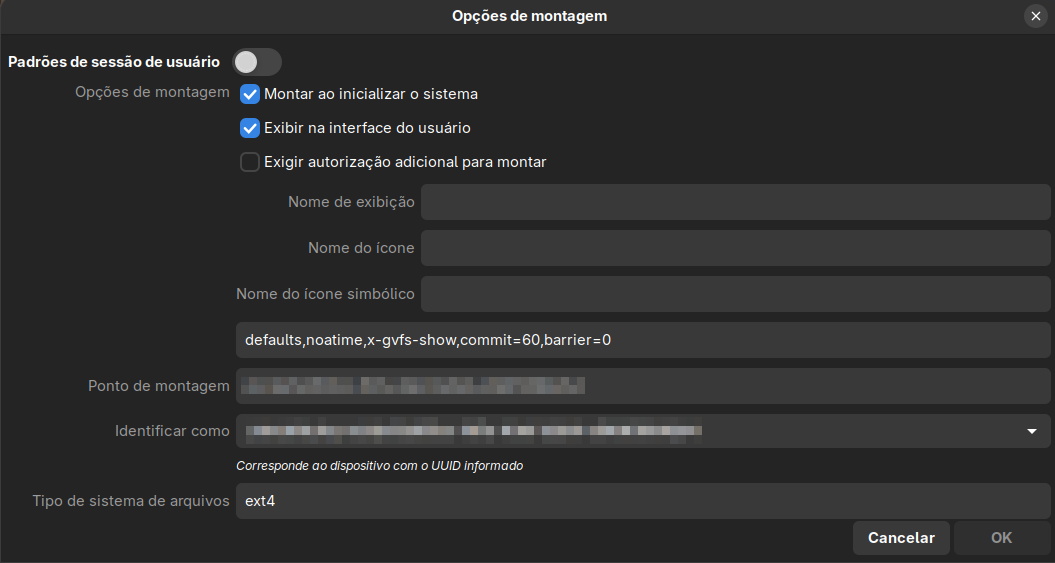
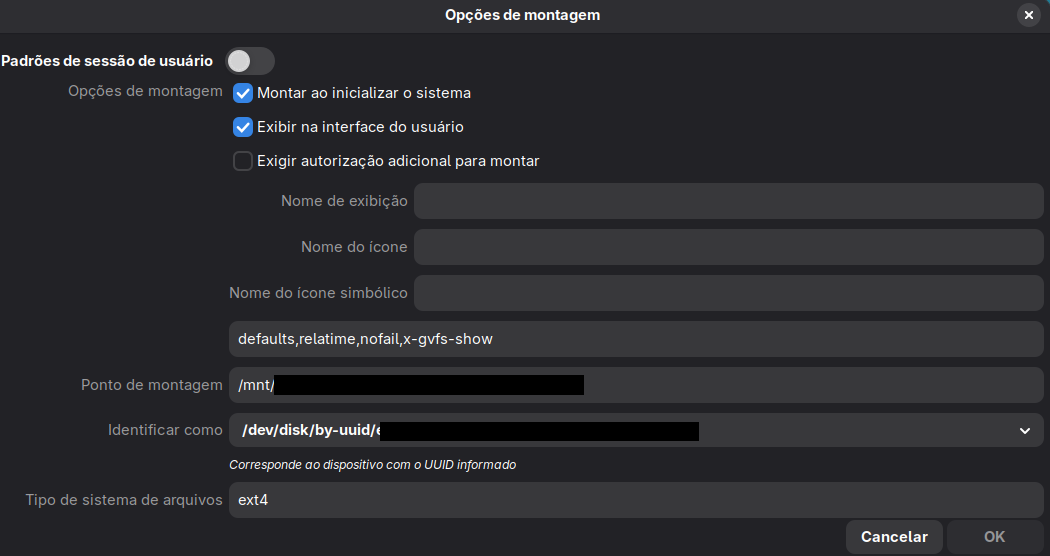
retira as configurações para o fstab e modifica a estrutura do texto

diff --git a/config-finais.md b/config-finais.md
@@ -1,54 +1,53 @@
-# Configurações necessárias após as execuções dos scripts
+# Configurações
 
-[1 - Tema e extensões](https://github.com/henriqueffc/archpost-installation/blob/main/config-finais.md#1---tema-e-extens%C3%B5es)
-|
-[2 - SSH](https://github.com/henriqueffc/archpost-installation/blob/main/config-finais.md#2---ssh)
-|
-[3 - NVMe](https://github.com/henriqueffc/archpost-installation/blob/main/config-finais.md#3---nvme)
-|
-[4 - Nautilus](https://github.com/henriqueffc/archpost-installation/blob/main/config-finais.md#4---nautilus)
-|
-[5 - Fstab](https://github.com/henriqueffc/archpost-installation/blob/main/config-finais.md#5---fstab)
-|
-[6 - Ext4](https://github.com/henriqueffc/archpost-installation/blob/main/config-finais.md#6---ext4)
-|
-[7 - Xpad](https://github.com/henriqueffc/archpost-installation/blob/main/config-finais.md#7---xpad)
-|
-[8 - Rclone](https://github.com/henriqueffc/archpost-installation/blob/main/config-finais.md#8---rclone)
-|
-[9 - Conservation mode - Lenovo Loq 15IRH8](https://github.com/henriqueffc/archpost-installation/blob/main/config-finais.md#9---conservation-mode---lenovo-loq-15irh8)
-|
-[10 - Steam](https://github.com/henriqueffc/archpost-installation/blob/main/config-finais.md#10---steam)
-|
-[11 - Fallback](https://github.com/henriqueffc/archpost-installation/blob/main/config-finais.md#11---fallback)
-|
-[12 - Bluetooth](https://github.com/henriqueffc/archpost-installation/blob/main/config-finais.md#12---bluetooth)
-|
-[13 - Geoclue](https://github.com/henriqueffc/archpost-installation/blob/main/config-finais.md#13---geoclue)
-|
-[14 - Aplicativos](https://github.com/henriqueffc/archpost-installation/blob/main/config-finais.md#14---aplicativos)
-|
-[15 - Piper](https://github.com/henriqueffc/archpost-installation/blob/main/config-finais.md#15---piper)
-|
-[16 - Ordem do boot](https://github.com/henriqueffc/archpost-installation/blob/main/config-finais.md#16---ordem-do-boot)
-|
-[17 - Zotero](https://github.com/henriqueffc/archpost-installation/blob/main/config-finais.md#17---zotero)
-|
-[18 - Incus](https://github.com/henriqueffc/archpost-installation/blob/main/config-finais.md#18---incus)
-|
-[19 - tmpfiles](https://github.com/henriqueffc/archpost-installation/blob/main/config-finais.md#19---tmpfiles)
-|
-[20 - sgpt](https://github.com/henriqueffc/archpost-installation/blob/main/config-finais.md#20---sgpt)
-|
-[21 - dns](https://github.com/henriqueffc/archpost-installation/blob/main/config-finais.md#21---dns)
-|
-[22 - easyeffects](https://github.com/henriqueffc/archpost-installation/blob/main/config-finais.md#22---easyeffects)
-|
-[23 - firefox](https://github.com/henriqueffc/archpost-installation/blob/main/config-finais.md#23---firefox)
-|
-[24 - igpu](https://github.com/henriqueffc/archpost-installation/blob/main/config-finais.md#24---igpu)
+Execute as configurações somente após a conclusão de todos os scripts do
+repositório.
 
-### 1 - Tema e extensões
+[Tema e extensões](https://github.com/henriqueffc/archpost-installation/blob/main/config-finais.md#tema-e-extens%C3%B5es)
+|
+[SSH](https://github.com/henriqueffc/archpost-installation/blob/main/config-finais.md#ssh)
+|
+[Nautilus](https://github.com/henriqueffc/archpost-installation/blob/main/config-finais.md#nautilus)
+|
+[Ext4](https://github.com/henriqueffc/archpost-installation/blob/main/config-finais.md#ext4)
+|
+[Xpad](https://github.com/henriqueffc/archpost-installation/blob/main/config-finais.md#xpad)
+|
+[Rclone](https://github.com/henriqueffc/archpost-installation/blob/main/config-finais.md#rclone)
+|
+[Conservation mode - Lenovo Loq 15IRH8](https://github.com/henriqueffc/archpost-installation/blob/main/config-finais.md#conservation-mode---lenovo-loq-15irh8)
+|
+[Steam](https://github.com/henriqueffc/archpost-installation/blob/main/config-finais.md#steam)
+|
+[Fallback](https://github.com/henriqueffc/archpost-installation/blob/main/config-finais.md#fallback)
+|
+[Bluetooth](https://github.com/henriqueffc/archpost-installation/blob/main/config-finais.md#bluetooth)
+|
+[Geoclue](https://github.com/henriqueffc/archpost-installation/blob/main/config-finais.md#geoclue)
+|
+[Aplicativos](https://github.com/henriqueffc/archpost-installation/blob/main/config-finais.md#aplicativos)
+|
+[Piper](https://github.com/henriqueffc/archpost-installation/blob/main/config-finais.md#piper)
+|
+[Ordem do boot](https://github.com/henriqueffc/archpost-installation/blob/main/config-finais.md#ordem-do-boot)
+|
+[Zotero](https://github.com/henriqueffc/archpost-installation/blob/main/config-finais.md#zotero)
+|
+[Incus](https://github.com/henriqueffc/archpost-installation/blob/main/config-finais.md#incus)
+|
+[tmpfiles](https://github.com/henriqueffc/archpost-installation/blob/main/config-finais.md#tmpfiles)
+|
+[sgpt](https://github.com/henriqueffc/archpost-installation/blob/main/config-finais.md#sgpt)
+|
+[dns](https://github.com/henriqueffc/archpost-installation/blob/main/config-finais.md#dns)
+|
+[easyeffects](https://github.com/henriqueffc/archpost-installation/blob/main/config-finais.md#easyeffects)
+|
+[firefox](https://github.com/henriqueffc/archpost-installation/blob/main/config-finais.md#firefox)
+|
+[igpu](https://github.com/henriqueffc/archpost-installation/blob/main/config-finais.md#igpu)
+
+## Tema e extensões
 
 **Tema**
 
@@ -92,21 +91,11 @@ preciso habilitar a extensão "Integração com o Gnome Shell"
 ([Firefox](https://addons.mozilla.org/firefox/addon/gnome-shell-integration/) /
 [Chrome](https://chromewebstore.google.com/detail/gnome-shell-integration/gphhapmejobijbbhgpjhcjognlahblep)).
 
-### 2 - SSH
+## SSH
 
 Configurar o Fail2ban - porta SSH e o SSH.
 
-### 3 - NVMe
-
-Não altere a identificação do ponto de montagem. Mude as flags (coloque
-`defaults,relatime,x-gvfs-show,commit=60,barrier=0`) e o tipo de sistema de
-arquivos (auto -> ext4) da partição do NVMe no aplicativo Discos - Opções
-adicionais de partição - Editar opções de montagem. Lembrando que essa
-configuração é para a partição do NVMe em que ficam instalados os jogos, VMs e
-outros dados. Não é configuração a ser aplicada para a partição do sistema, do
-boot ou a home. ![Screenshot1](.github/screenshots/discos.png)
-
-### 4 - Nautilus
+## Nautilus
 
 Atalhos no Nautilus (File). A fonte que contém os símbolos foi instalada pelo
 script número 3.
@@ -117,18 +106,7 @@ script número 3.
 
 `mkdir ~/Documentos/Projetos && echo "file:///home/$USER/Documentos/Projetos 🎒 Projetos" >>~/.config/gtk-3.0/bookmarks`
 
-### 5 - Fstab
-
-Acrescente nos parâmetros da partição raiz **/** as seguintes especificações
-`commit=60` e `barrier=0`.
-
-`sudo nano /etc/fstab`
-
-```
-/               ext4            rw,relatime,commit=60,barrier=0  0 1
-```
-
-### 6 - Ext4
+## Ext4
 
 Habilite o
 [fast commit](https://wiki.archlinux.org/title/Ext4#Enabling_fast_commit_in_existing_filesystems)
@@ -195,7 +173,7 @@ orphan_file não estiver disponível na lista)
 Verifique a lista novamente usando
 `sudo dumpe2fs -h /dev/camimho_da_partição | grep features`
 
-### 7 - Xpad
+## Xpad
 
 O controle Multilaser JS091 (Shanwan Controler) está funcionando corretamente
 como Microsoft Corp. Xbox360 Controller (verifique com `lsusb`). Caso não
@@ -203,11 +181,11 @@ funcione instale a atualização para o Xpad disponível no site
 <https://github.com/paroj/xpad> ou utilize o pacote disponível no AUR
 `game-devices-udev` <https://codeberg.org/fabiscafe/game-devices-udev>
 
-### 8 - Rclone
+## Rclone
 
 Configurar o remote no rclone e fazer o scprit de sincronização.
 
-### 9 - Conservation mode - Lenovo Loq 15IRH8
+## Conservation mode - Lenovo Loq 15IRH8
 
 Modo de conservação da bateria. Se for habilitado manterá a carga máxima da
 bateria em 80%. No painel de configuração do GNOME, na opção "Energia", em
@@ -232,7 +210,7 @@ Para desabilitar
 
 `echo 0 > /sys/bus/platform/drivers/ideapad_acpi/VPC2004:00/conservation_mode`
 
-### 10 - Steam
+## Steam
 
 **Proton**
 
@@ -354,7 +332,7 @@ Execute no terminal (com a Steam fechada)
 
 `steam-runtime steam://unlockh264/` ou `steam steam://unlockh264/`
 
-### 11 - Fallback
+## Fallback
 
 Caso a imagem para o kernel fallback esteja sendo gerada pelo mkinitcpio, faça o
 seguinte:
@@ -379,7 +357,7 @@ Regenere o initramfs:
 
 `sudo mkinitcpio -P`
 
-### 12 - Bluetooth
+## Bluetooth
 
 Caso o bluetooth não esteja funcionando, execute
 `sudo rfkill unblock bluetooth && sudo systemctl restart bluetooth`. Os pacotes
@@ -387,7 +365,7 @@ necessários para o funcionamento do bluetooth já foram instalados no sistema e
 as configurações para os recursos experimentais do bluetooth foram executadas no
 script número n.° 3.
 
-### 13 - Geoclue
+## Geoclue
 
 **Geoclue estático**
 
@@ -434,7 +412,7 @@ Se quiser desabilitar o Geoclue use os seguintes comandos:
 
 Manual do [Geoclue](https://man.archlinux.org/man/extra/geoclue/geoclue.5.en)
 
-### 14 - Aplicativos
+## Aplicativos
 
 **Falhas na renderização**
 
@@ -459,7 +437,7 @@ Desabilite o funcionamento dos aplicativos Apostrophe e Discord em segundo
 plano. Pode ser feito pelo Flatseal ou pelas configurações do Gnome
 (Aplicativos).
 
-### 15 - Piper
+## Piper
 
 [https://github.com/Elleo/pied/](https://github.com/Elleo/pied/)
 
@@ -483,7 +461,7 @@ mudança.
 
 O ícone do app estará na pasta Utilitários no grid.
 
-### 16 - Ordem do boot
+## Ordem do boot
 
 Verifique o ID do kernel com o comando `bootctl list`. Selecione o kernel que
 você deseja para a inicialização do sistema com o comando
@@ -496,7 +474,7 @@ desejado (em segundos) da exibição ou coloque 0 para esconder as opções de
 inicialização. Para acessar a tela, caso opte por escondê-la, após ligar o
 notebook pressione a barra de espaço do teclado.
 
-### 17 - Zotero
+## Zotero
 
 Faça o download do arquivo xpi das seguintes extensões:
 
@@ -509,7 +487,7 @@ foram instalados pelo script n.º 3. Nas configurações da extensão no Zotero
 configure a localização para o tesseract `/usr/bin/tesseract` e para o pdftoppm
 `/usr/bin/pdftoppm`.
 
-### 18 - Incus
+## Incus
 
 Execute os seguintes comandos para configurar o Incus.
 
@@ -537,7 +515,7 @@ configurações do profile. Caso altere o nome, substitua nos comandos abaixo.
 
 `sudo firewall-cmd --reload`
 
-### 19 - tmpfiles
+## tmpfiles
 
 O arquivo de configuração para cada ação deve ser alocado em `/etc/tmpfiles.d/`
 
@@ -570,7 +548,7 @@ Depois de concebido o arquivo, execute
 
 `sudo systemd-tmpfiles --create`
 
-### 20 - sgpt
+## sgpt
 
 **Instalação**
 
@@ -611,7 +589,7 @@ API_BASE_URL=http://127.0.0.1:11434
 
 [Fonte - github shell_gpt](https://github.com/TheR1D/shell_gpt/wiki/Ollama)
 
-### 21 - dns
+## dns
 
 A instalação do
 [systemd-resolved](https://wiki.archlinux.org/title/Systemd-resolved) e a
@@ -628,7 +606,7 @@ aplicada.
 Verificar se DoT está funcionando
 `resolvectl query --type=TXT whoami.ds.akahelp.net`
 
-### 22 - easyeffects
+## easyeffects
 
 Configuração do EasyEffects para aplicar os presets para o headset
 ([Easyeffect-Presets](https://github.com/Digitalone1/EasyEffects-Presets)) e
@@ -668,7 +646,7 @@ pode ser usado para cancelamento de ruído e para outras melhorias no áudio ao 
 usar o microfone. Essa predefinição deve ser alocada na aba "Entrada" ou no
 diretório `~/.var/app/com.github.wwmm.easyeffects/data/easyeffects/input`
 
-### 23 - firefox
+## firefox
 
 Uso o tema
 [Gnome Adwaita GTK4 Dark](https://addons.mozilla.org/pt-BR/firefox/addon/gnome-adwaita-gtk4-dark/)
@@ -759,9 +737,9 @@ Fontes:
 [Arch Forum](https://bbs.archlinux.org/viewtopic.php?id=117157),
 [Repositório](https://pkgbuild.com/~heftig/packages/)
 
-### 24 - igpu
+## igpu
 
-#### Intel Xe
+**Intel Xe**
 
 Para habilitar o driver Intel Xe no lugar do i915, faça as configurações
 recomendadas na página da Wiki
